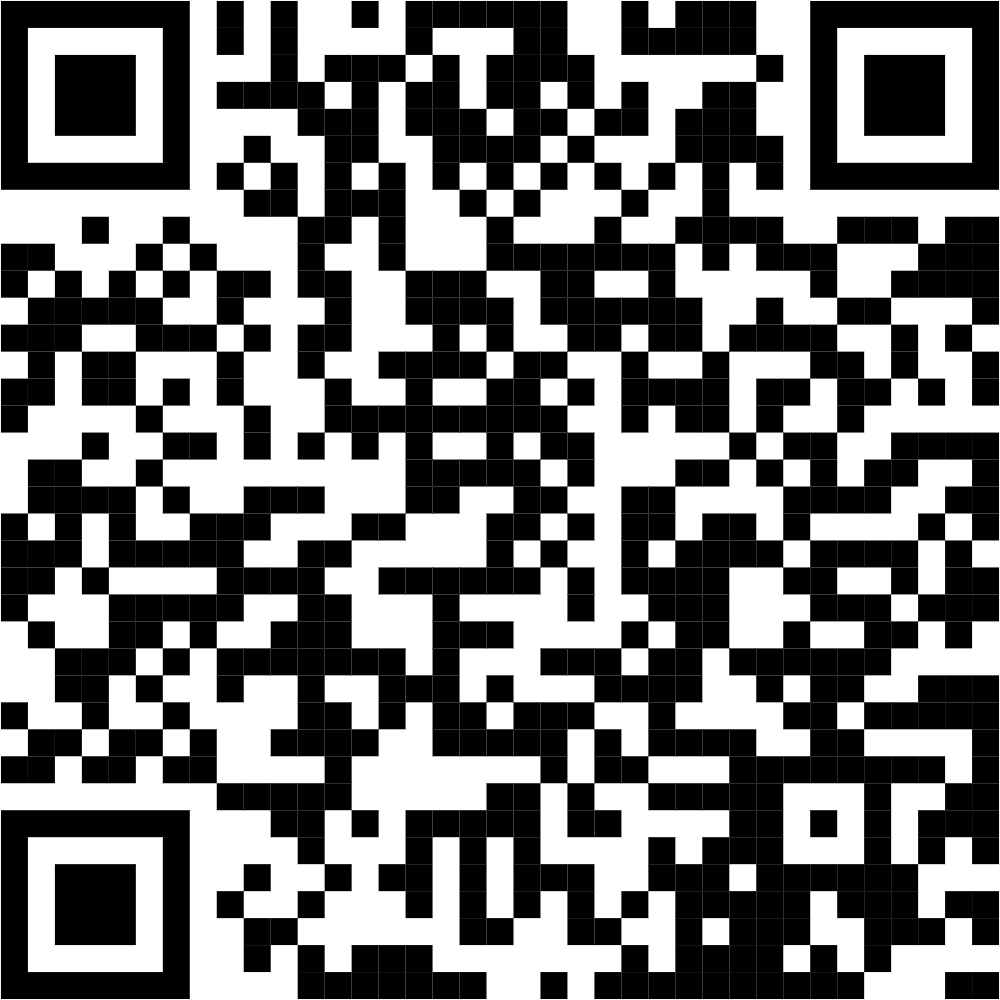
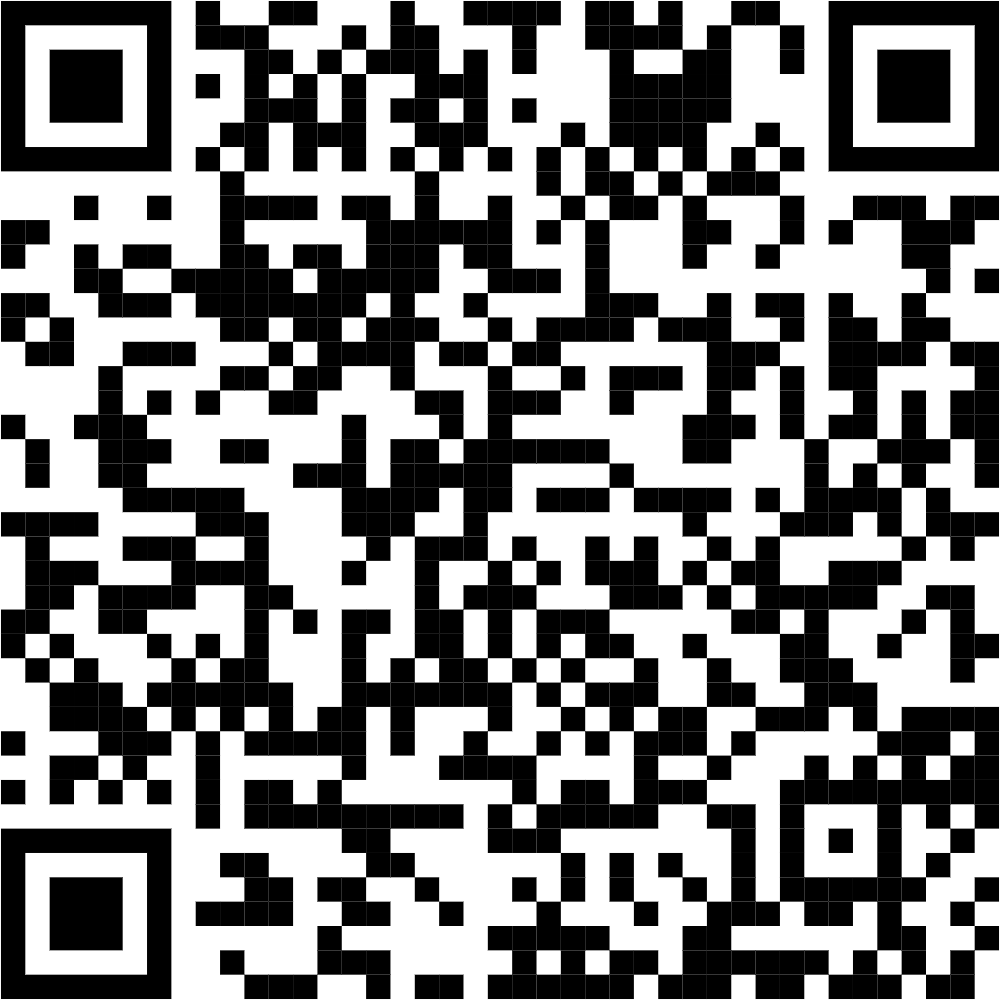
changes

diff --git a/src/components/Download.jsx b/src/components/Download.jsx
@@ -6,7 +6,7 @@ import { ToastContainer, toast } from "react-toastify";
 import "react-toastify/dist/ReactToastify.css";
 import right from "../assets/arrow-right.svg";
 import right1 from "../assets/share.svg";
-import qr from "../assets/code2.png";
+import qr from "../assets/code.png";
 import gif from "../assets/Recent updated1.gif"
 
 export const Download = () => {
@@ -171,7 +171,7 @@ export const Download = () => {
                       className="bg-blue-500 hover:bg-blue-600 text-white font-medium px-1 py-1  lg:px-2 lg:py-2 flex items-center justify-center"
                       onClick={() =>
                         window.open(
-                          "https://yoursayimages.b-cdn.net/app-release-new.apk",
+                          "https://yoursay-app.b-cdn.net/yoursay-app.apk",
                           "_blank"
                         )
                       }
